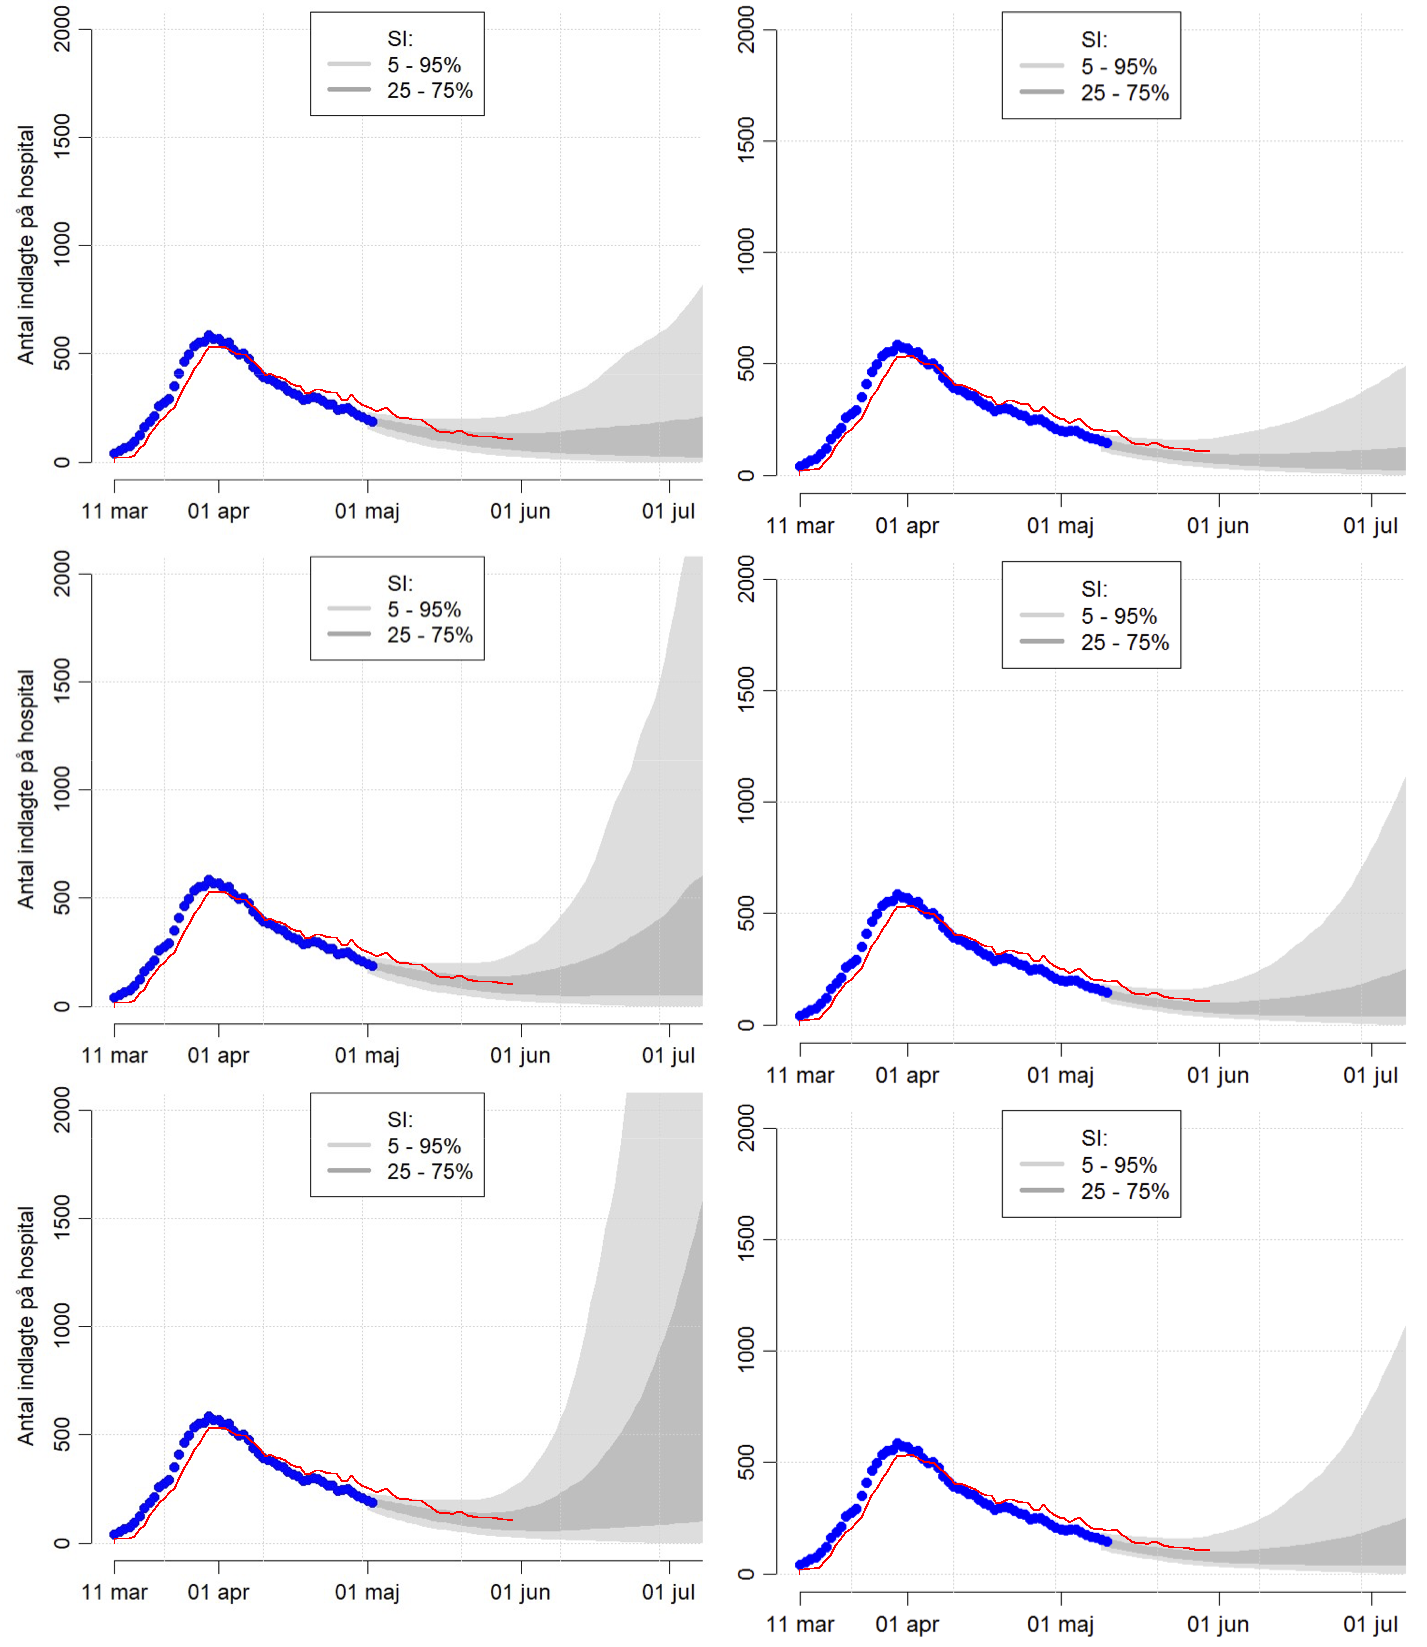
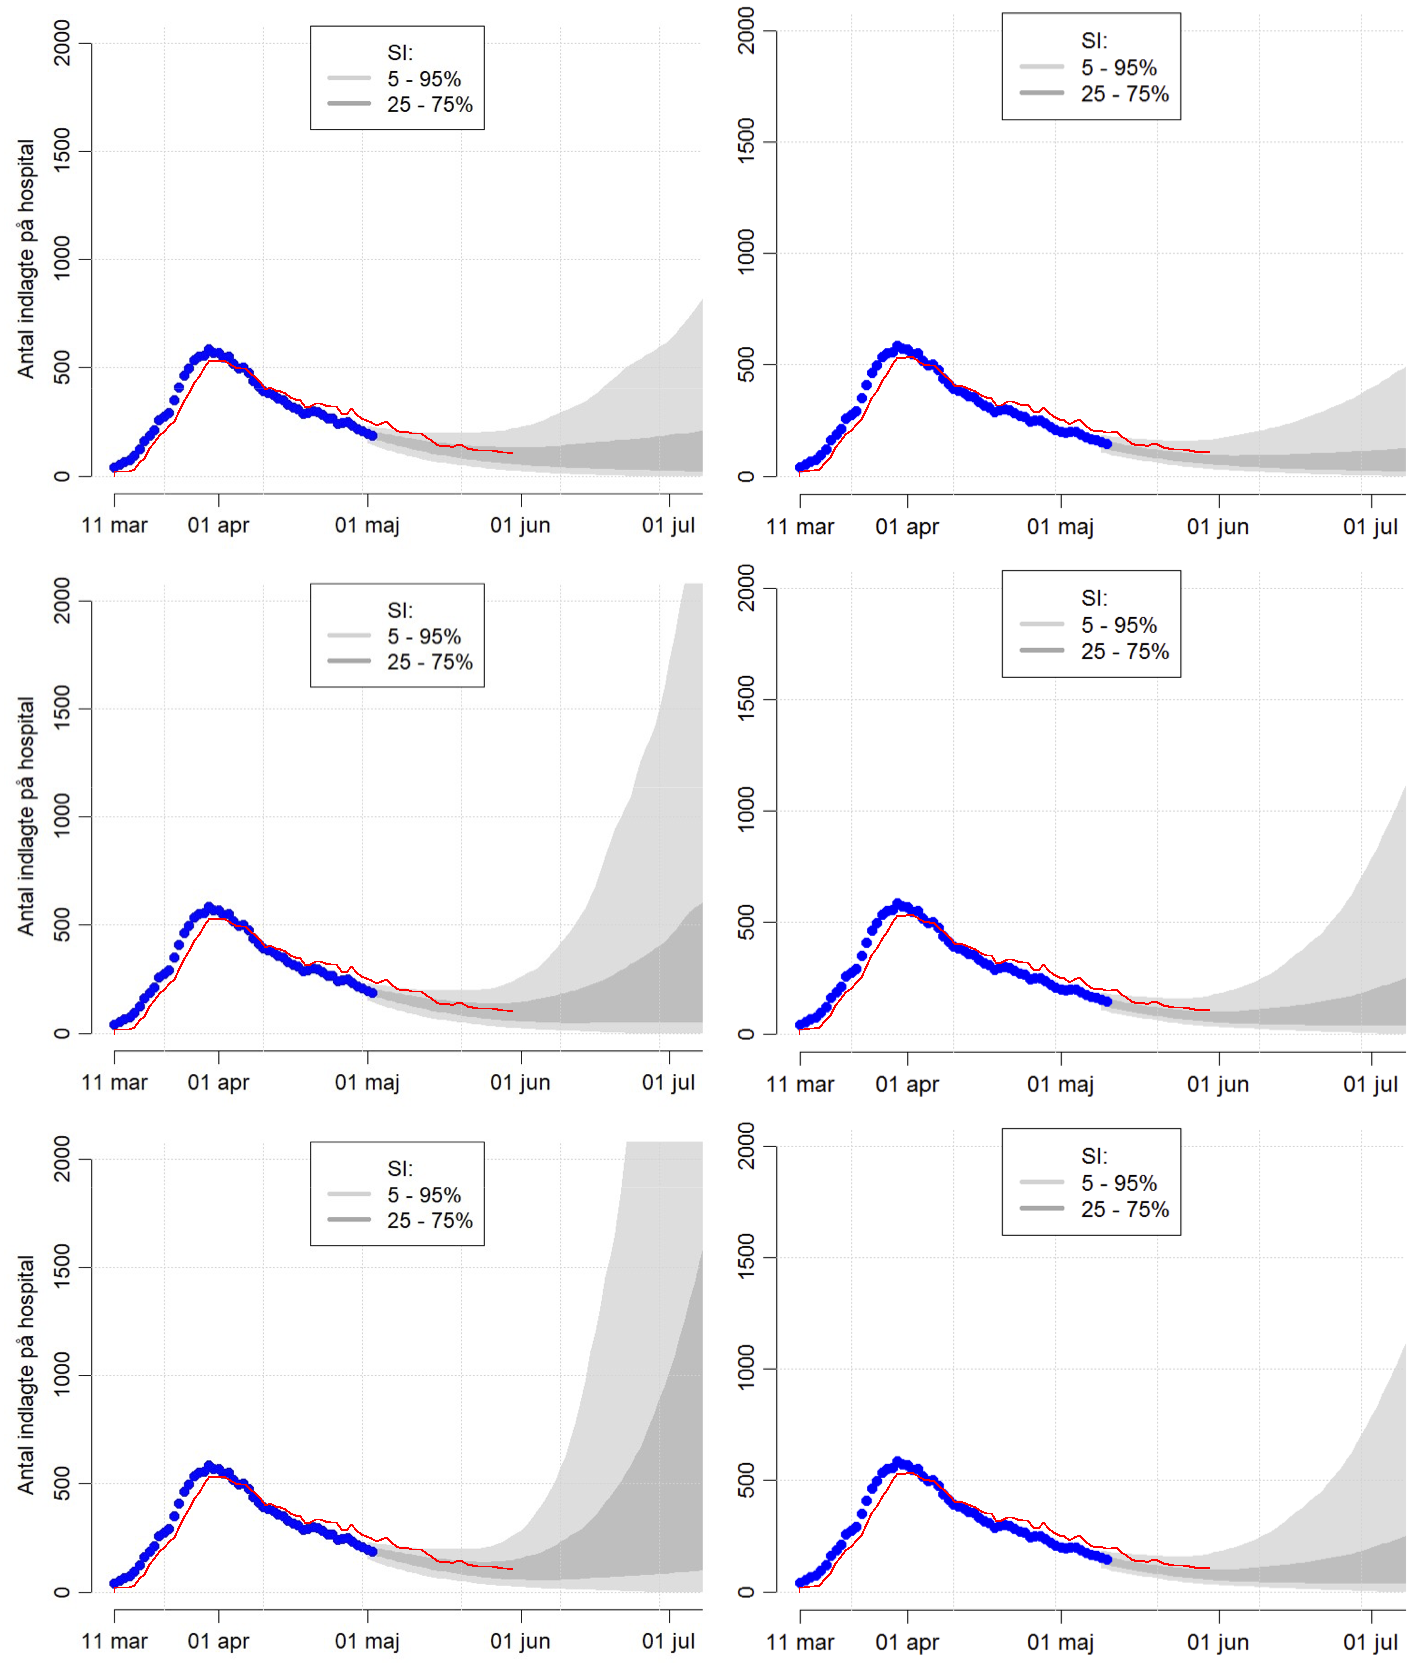
Align y-axis at 0

diff --git a/py/lib.py b/py/lib.py
@@ -5,6 +5,14 @@ import numpy as np
 # read hospitalizations per day from datafile
 POINTS = list(map(int, open('hospitalized.txt').readlines()))
 
+
+class Plot:
+    def __init__(self, img, start_x, start_y):
+        self.img = img
+        self.start_x = start_x
+        self.start_y = start_y
+
+
 class Prediction:
     def __init__(self, path, x_size, y_size):
         self.path = path
@@ -59,7 +67,9 @@ class Prediction:
             crop_start_x = fix(lambda x: (self.img[crop_start_y:crop_end_y, x], x - 1), crop_start_x)
             crop_end_x = fix(lambda x: (self.img[crop_start_y:crop_end_y, x], x + 1), crop_end_x)
 
-        return self.img[crop_start_y:crop_end_y, crop_start_x:crop_end_x]
+        return Plot(self.img[crop_start_y:crop_end_y, crop_start_x:crop_end_x],
+                    x_start - crop_start_x,
+                    y_start - crop_start_y)
 
 
     def save(self):
@@ -151,16 +161,19 @@ def merge_vertical(*imgs):
     return np.concatenate(padded)
 
 def merge(img_groups):
-    imgs = [merge_vertical(*group) for group in img_groups]
-    height = max(len(i) for i in imgs)
-
-    padded = []
-    for i in imgs:
+    def pad_y(img, before, after):
         color = [(255, 255), (255, 255), (255, 255)]
-        buttom_pad = height - len(i)
-        padded.append(np.pad(i, ((0, buttom_pad), (0, 0), (0, 0)), mode='constant', constant_values=color))
+        return np.pad(img, ((before, after), (0, 0), (0, 0)), mode='constant', constant_values=color)
 
-    return np.concatenate(padded, axis=1)
+    max_y = max(max(i.start_y for i in group) for group in img_groups)
+    padded_groups = [[pad_y(i.img, max_y - i.start_y, 0) for i in g] for g in img_groups]
+
+    group_height = max(max(len(i) for i in group) for group in padded_groups)
+    padded_groups = [[pad_y(i, 0, group_height - len(i)) for i in g] for g in padded_groups]
+
+    imgs = [merge_vertical(*group) for group in padded_groups]
+    height = max(len(i) for i in imgs)
+    return np.concatenate([pad_y(i, 0, height - len(i)) for i in imgs], axis=1)
 
 
 def save(img, path):
